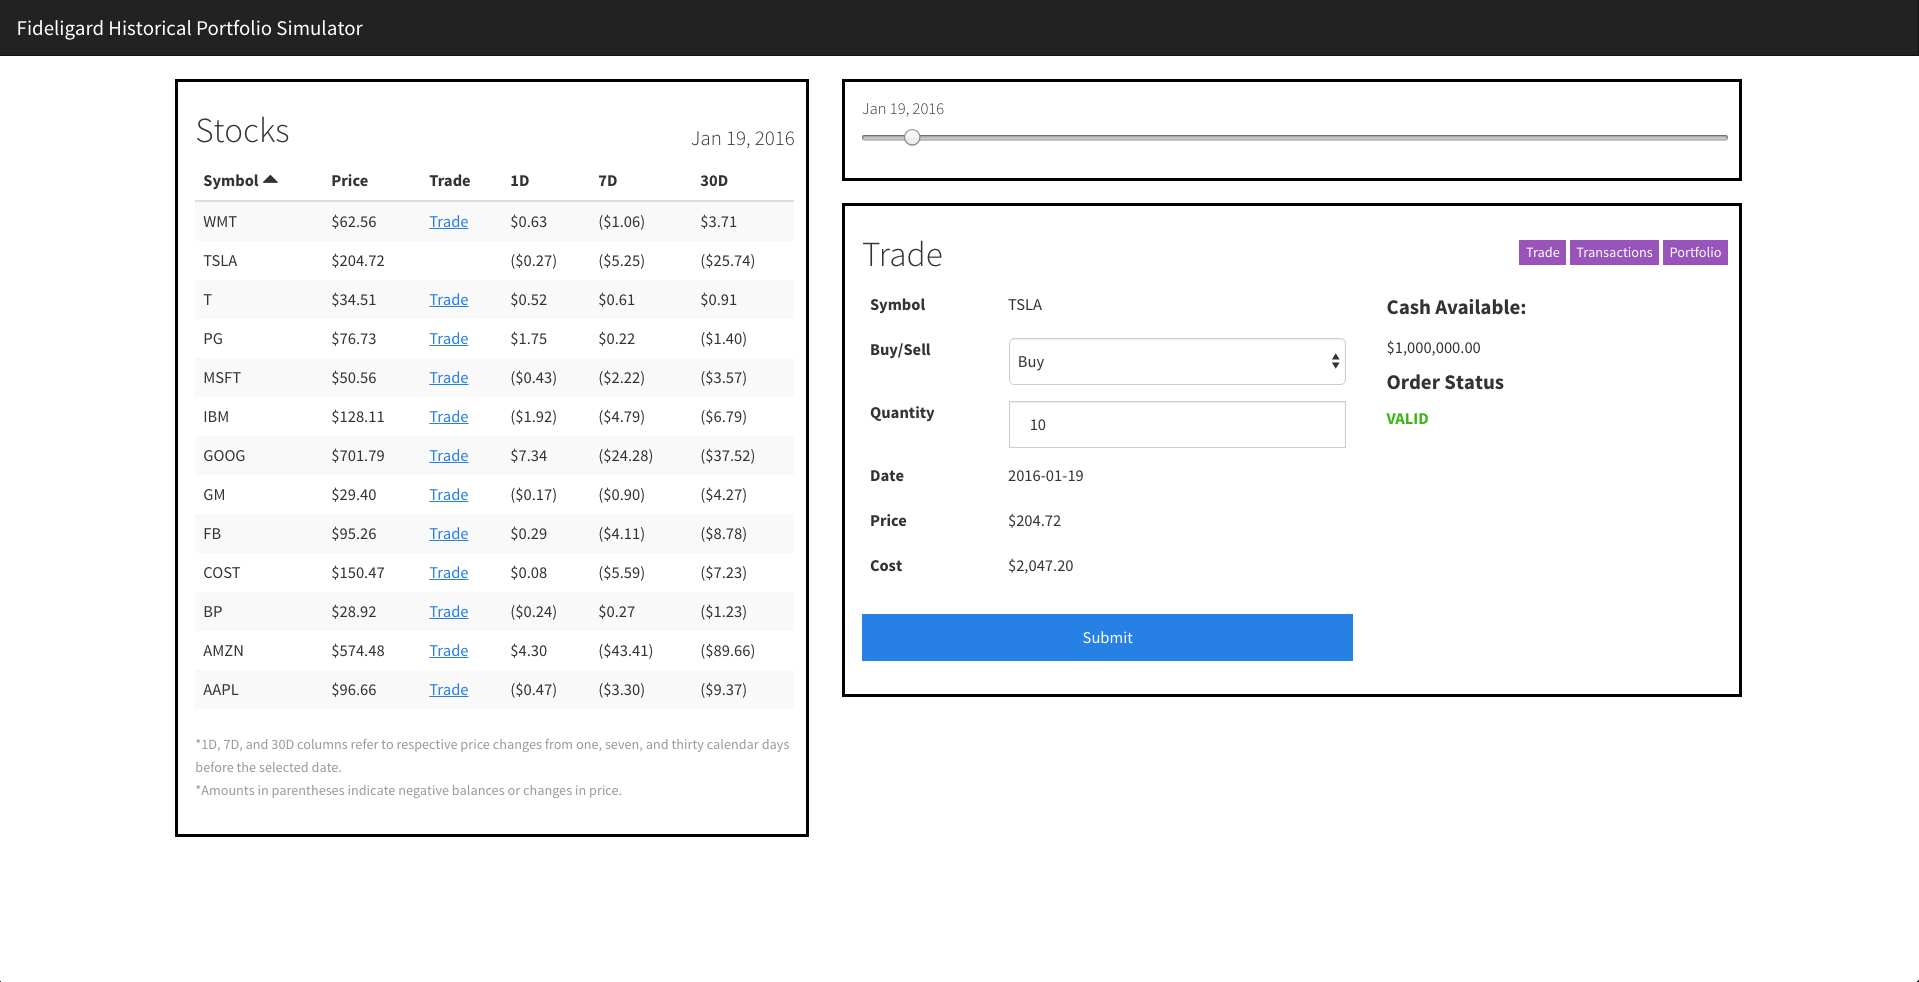
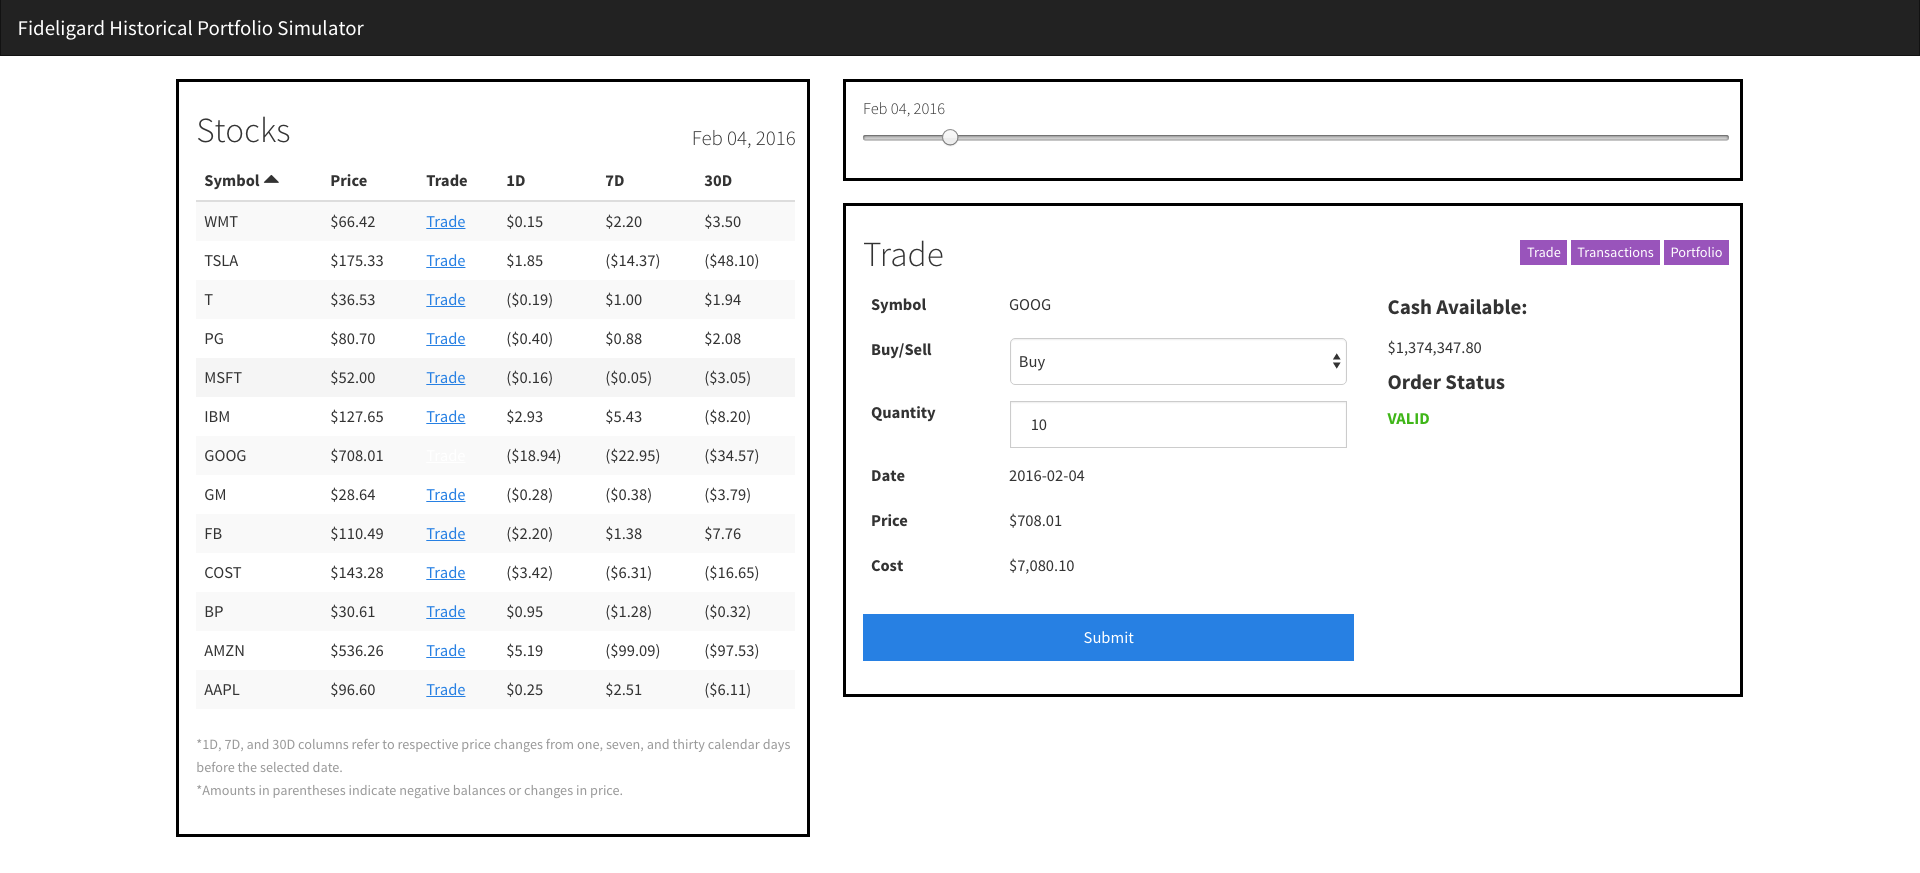
update readme

diff --git a/js/services/stock_service.js b/js/services/stock_service.js
@@ -31,34 +31,29 @@ Fideligard.factory("StockService",
 
     // return stock info for entire interval in date form
     StockService.all = function() {
-      // var requests = [];
-      // for(var i = 0; i < _stockSymbols.length; i++) {
-      //   requests.push(_getStock(_stockSymbols[i]))
-      // }
+      var requests = [];
+      for(var i = 0; i < _stockSymbols.length; i++) {
+        requests.push(_getStock(_stockSymbols[i]))
+      }
 
-      // return $q.all(requests)
-      //          .then(function(response) {
-      //             console.log("RESPONSE SUCCESSFUL")
-      //             console.table(response)
-      //             for(var i = 0; i < response.length; i++) {
-      //               _stocks.push(response[i].data);
-      //             };
-      //             _processData(_stocks)
-      //             return _stockData;
-      //          }, function(response) {
-      //           console.log("RESPONSE FAILED")
-      //           console.error(response);
-
-      //           // fallback on hardcoded data in case of 429 error
-      //           _stockSymbols = ['MSFT', 'AAPL', 'GOOG', 'TSLA', 'FB', 'T', 'PG', 'GM', 'BP', 'COST', 'WMT', 'AMZN', 'IBM'];
-      //           _stocks = responses;
-      //           _processData(_stocks);
-      //          })
+      return $q.all(requests)
+               .then(function(response) {
+                  console.log("RESPONSE SUCCESSFUL")
+                  console.table(response)
+                  for(var i = 0; i < response.length; i++) {
+                    _stocks.push(response[i].data);
+                  };
+                  _processData(_stocks)
+                  return _stockData;
+               }, function(response) {
+                console.log("RESPONSE FAILED")
+                console.error(response);
 
                 // fallback on hardcoded data in case of 429 error
                 _stockSymbols = ['MSFT', 'AAPL', 'GOOG', 'TSLA', 'FB', 'T', 'PG', 'GM', 'BP', 'COST', 'WMT', 'AMZN', 'IBM'];
                 _stocks = responses;
                 _processData(_stocks);
+               })
     }
 
     var _processData = function(stocks) {

diff --git a/README.md b/README.md
@@ -1,25 +1,29 @@
 # fideligard
 
-An AngularJS single-page web application using UI-Router multi-view states, NoSQL data modeling, and modular code to create a historical stock portfolio simulator with trading data via the Yahoo Finance API.
+An AngularJS single-page web application using UI-Router multi-view states, NoSQL data modeling, and modular code to create a historical stock portfolio simulator with trading data via the Quandl API.
 
 To fire on local server, `git clone` the repository and run `ruby -run -e httpd . -p 3000`.
 
-![Welcome]()
-
 ## Features
 
-### User Flow
-
 - Users are prompted to begin trading after stock data loads.
-- Via the stocks panel, users enter trades through the trade form, where fields are auto-populated with respective stock and date info. 
-- Submission disabled if user attempts to buy more stocks than their available cash, or sell more quantity than they own.
+- Stock panel automatically updates to reflect prices and price changes for the date selected in the slider.
 
-![Trade]()
+![Welcome](https://github.com/eating247/fideligard/blob/master/screenshots/welcome.png)
+
+- If the user wishes to enter a trade for any stock at the selected date, links provided in the stock panel will provide a trade form autopopulated with respective date and price information for the relevant stock.
+
+![Valid Trade](https://github.com/eating247/fideligard/blob/master/screenshots/trade-valid.png)
+
+- Submission automatically disabled if user attempts to buy more stocks than their available cash, or sell more quantity of any stock than they own.
+
+![Invalid Trade](https://github.com/eating247/fideligard/blob/master/screenshots/trade-invalid.png)
 
 - All transactions up to selected date can be sorted according to date, price, ticker, or type (buy/sell).
 
-![Transactions]()
+![Transactions](https://github.com/eating247/fideligard/blob/master/screenshots/transactions.png)
 
 - User's portfolio updates according to selected date, as adjusted through the date slider.
+- Portfolio view automatically calculates cost basis, current value, and profit/loss for positions held at any point of time in the given interval.
 
-![Portfolio]()
+![Portfolio](https://github.com/eating247/fideligard/blob/master/screenshots/portfolio.png)
